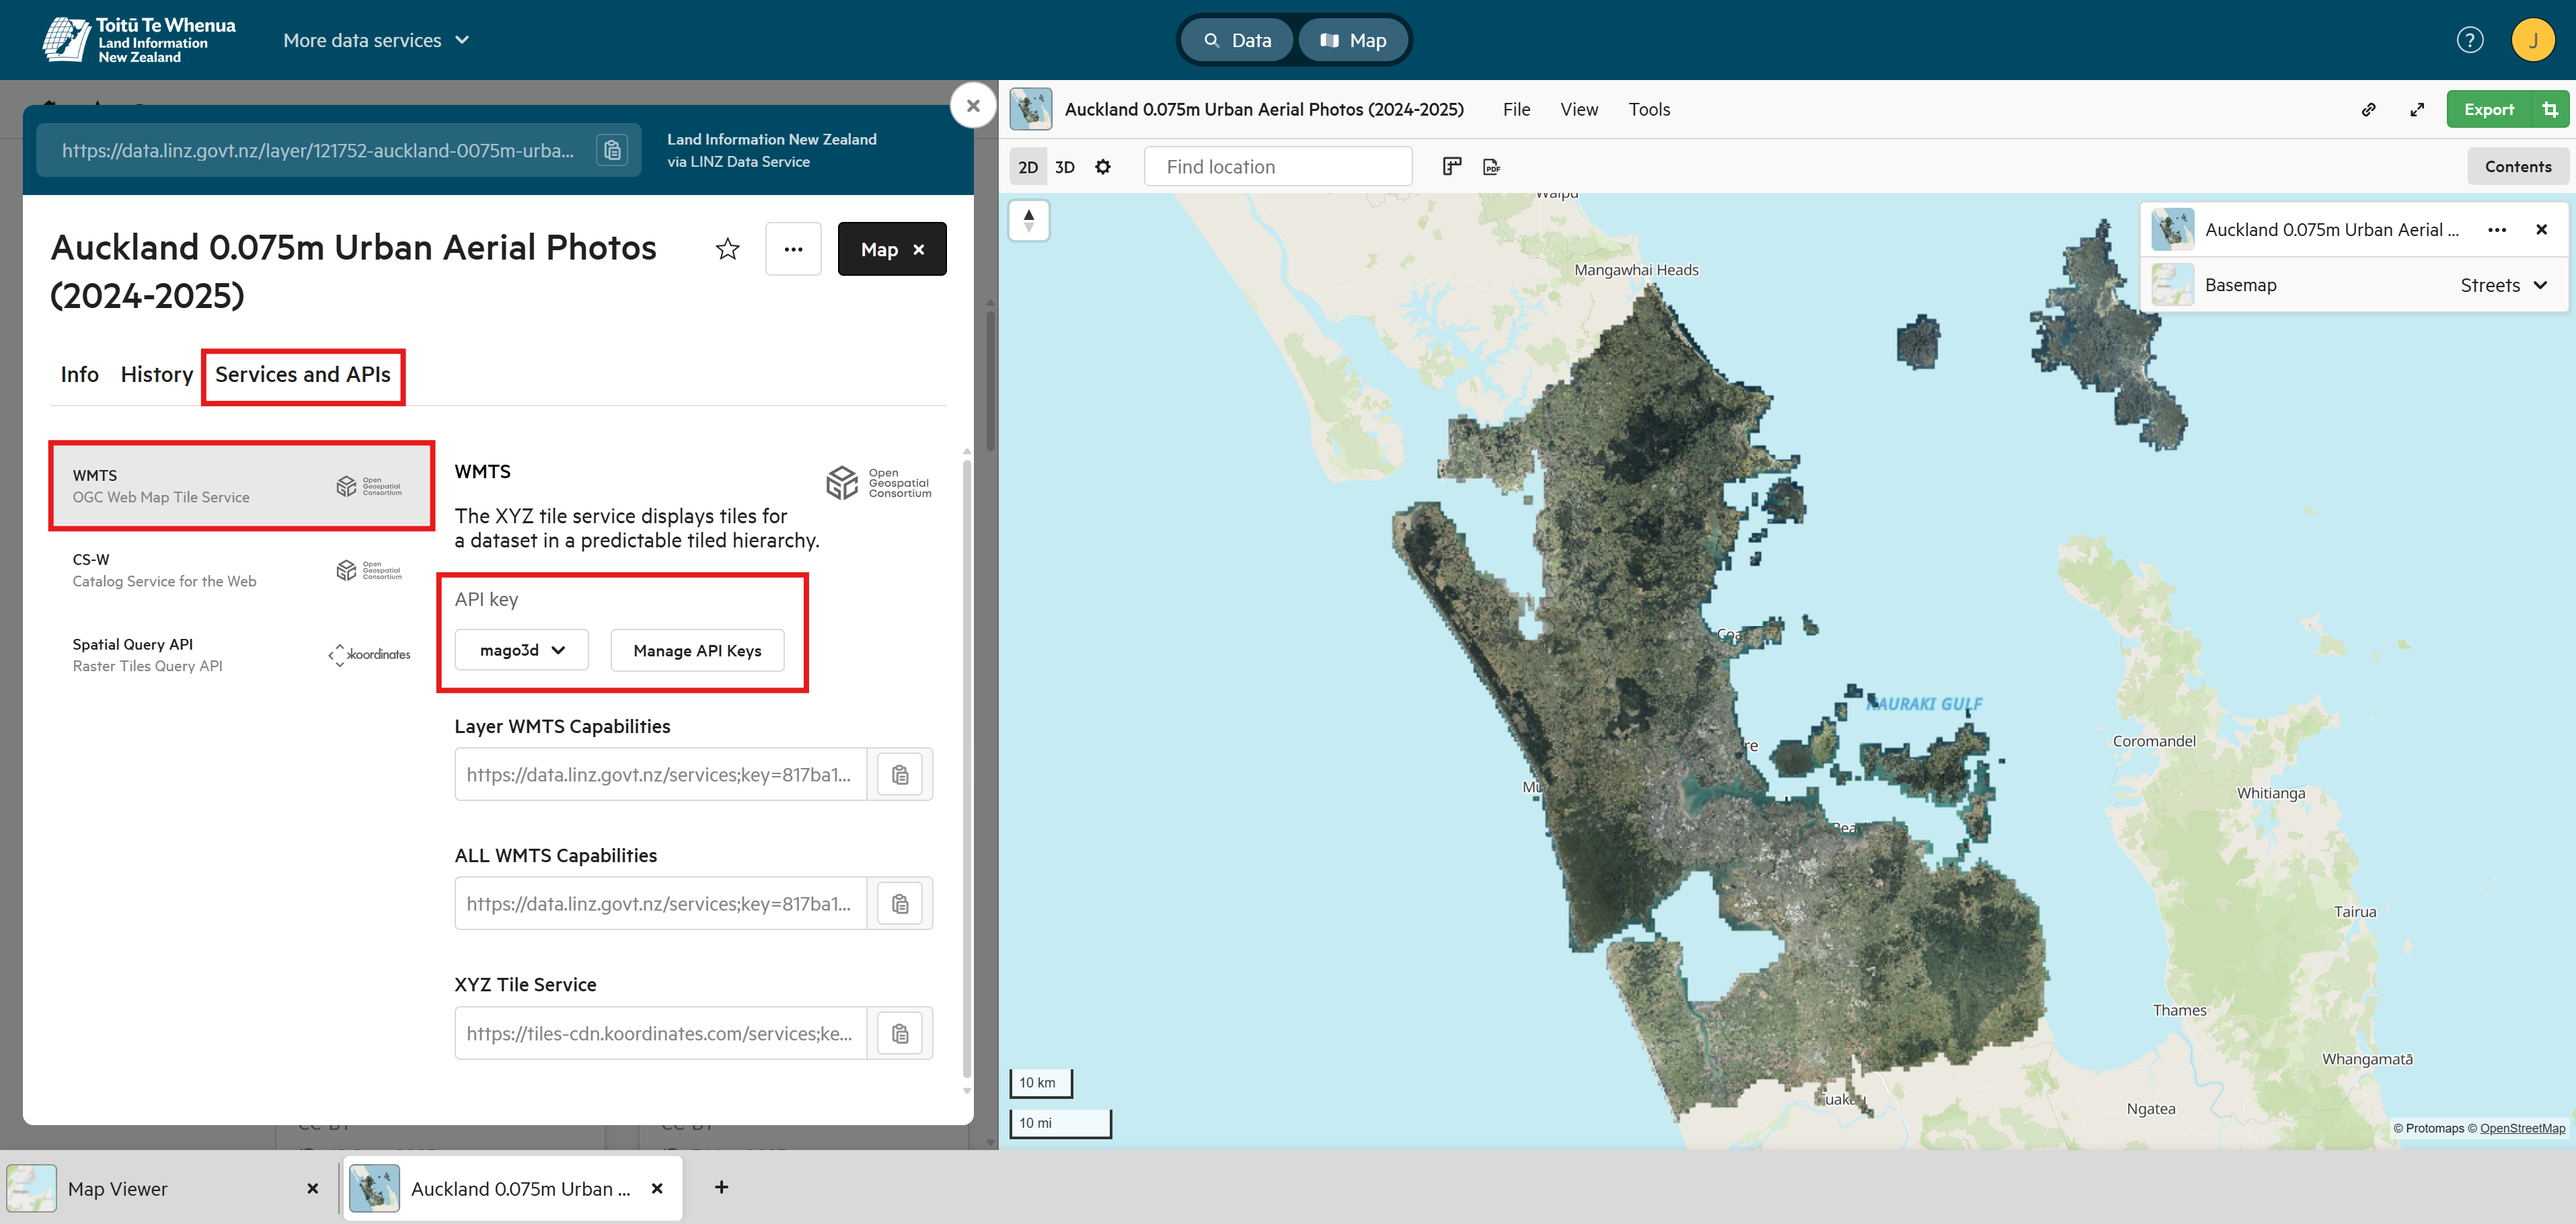
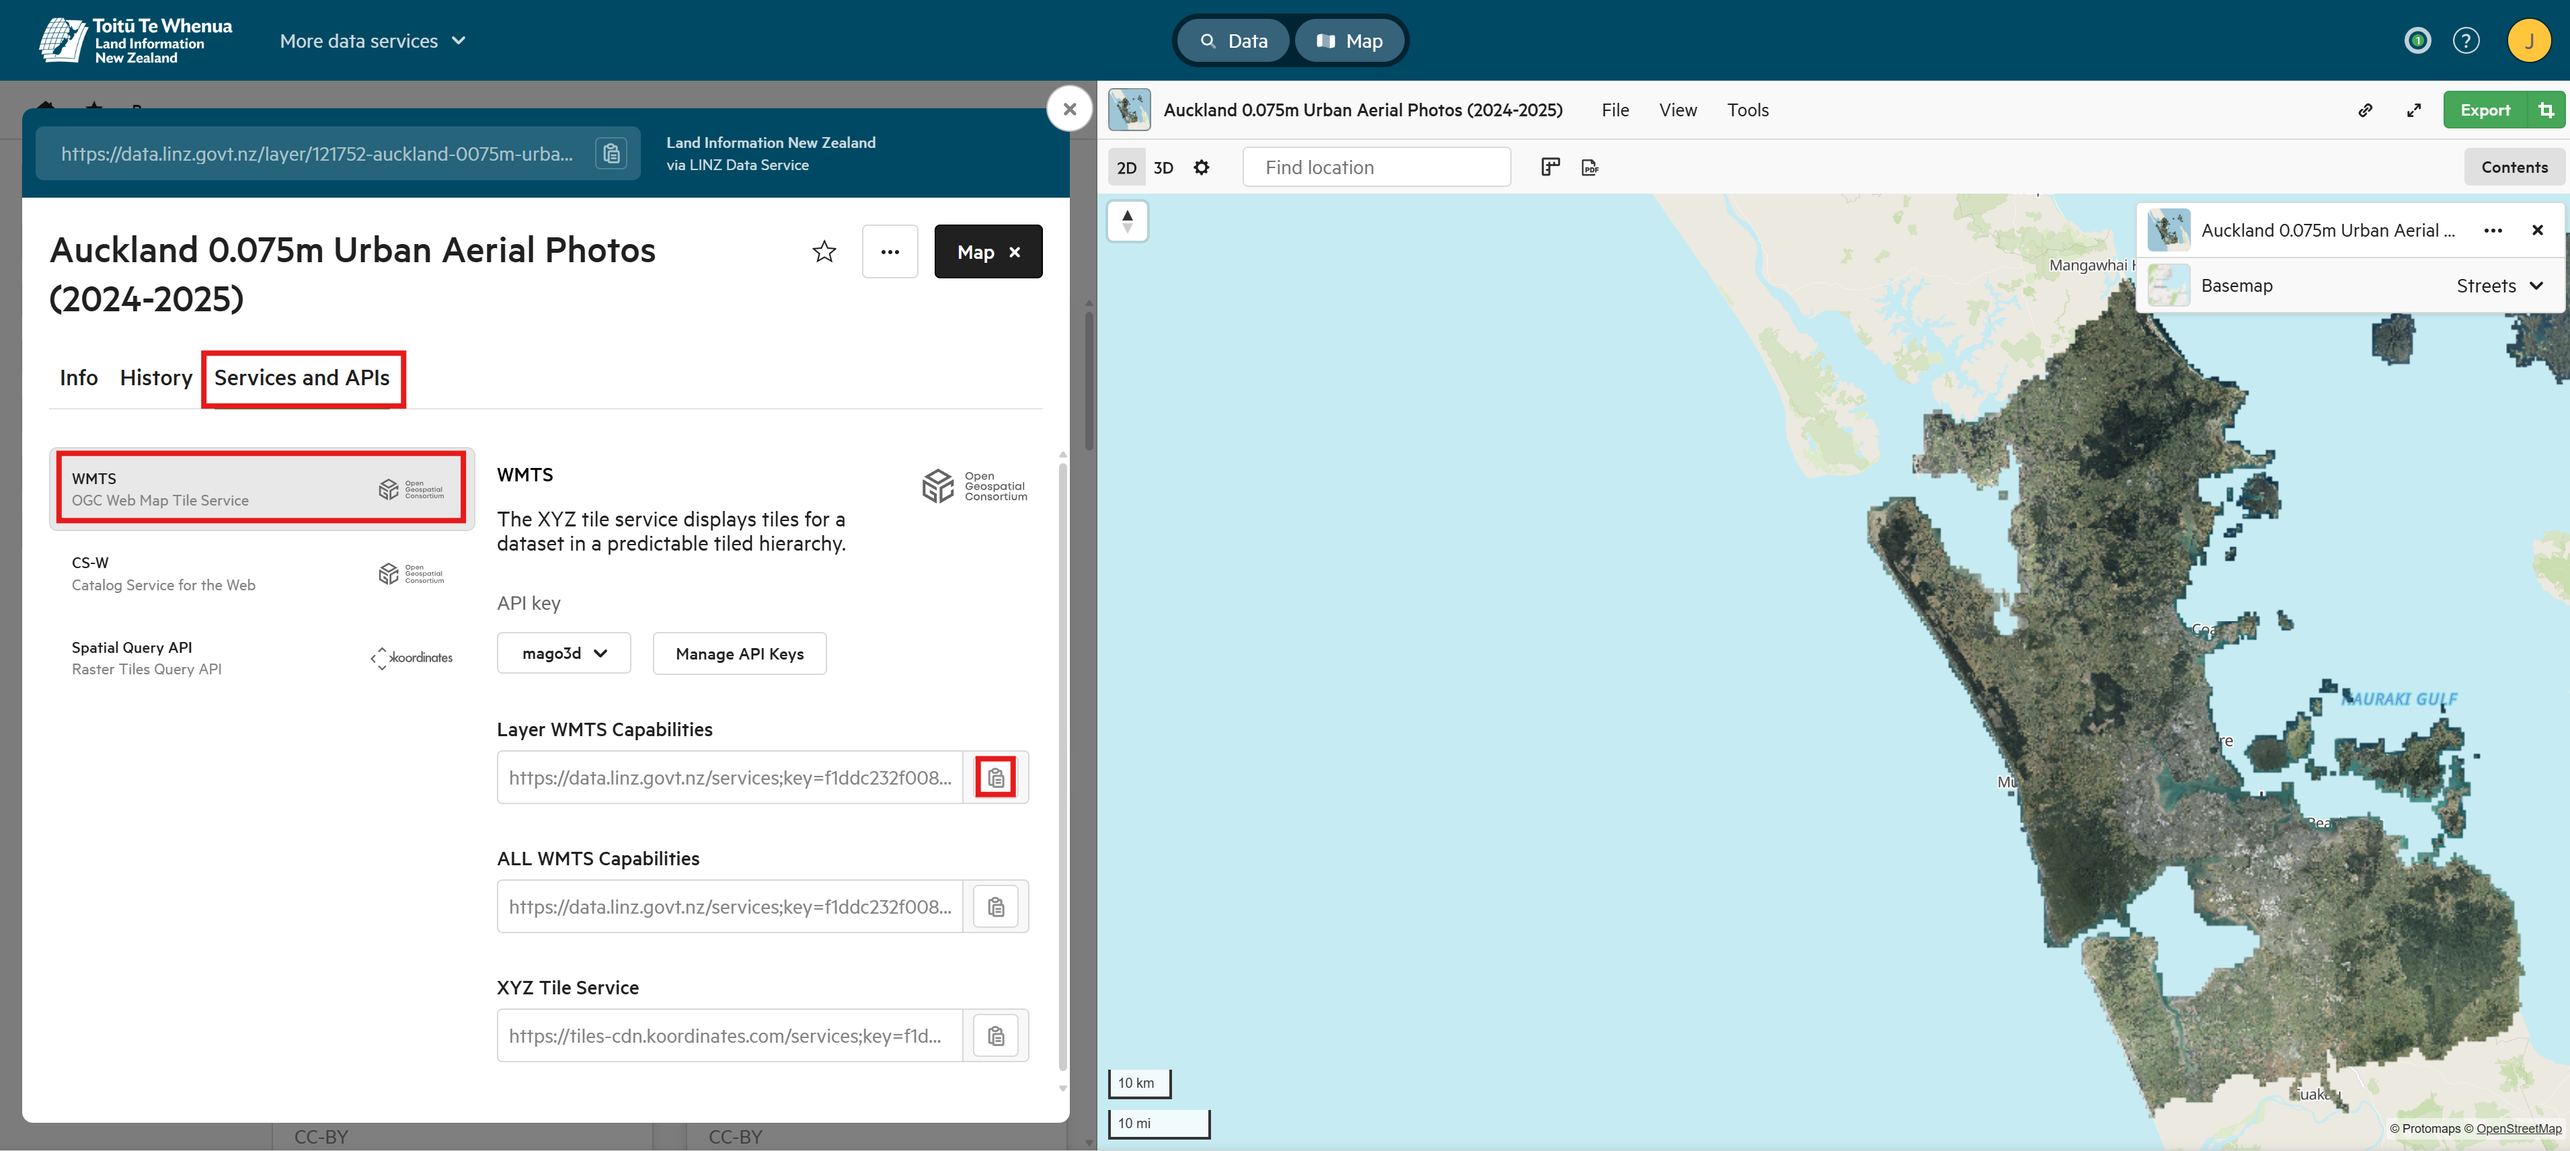
데이터 수집 가이드 수정

diff --git a/foss4g-2025/guides/1_Resource_Guide_Ko.md b/foss4g-2025/guides/1_Resource_Guide_Ko.md
@@ -3,23 +3,21 @@
 ## 기본 설정
 ### 1. 레포지토리 클론
 
-https://github.com/Gaia3D/mago3d-doc 의 git 주소를 복사합니다.
+- https://github.com/Gaia3D/mago3d-doc 의 git 주소를 복사합니다.
 
-![](../images/git_url.png)
+  ![](../images/git_url.png)
 
-`C:\` 에서 git bash를 엽니다.
+- `C:\` 에서 git bash를 엽니다.
 
-![](../images/git_bash.png)
+  ![](../images/git_bash.png)
 
-복사한 url을 붙여넣어 레포지토리를 클론합니다.
-```
-git clone https://github.com/Gaia3D/mago3d-doc.git
-```
+- 복사한 url을 붙여넣어 레포지토리를 클론합니다.
+  ```
+  git clone https://github.com/Gaia3D/mago3d-doc.git
+  ```
+  ![](../images/git_clone.png)
 
-![](../images/git_clone.png)
-
-`C:\mago3d-doc` 폴더가 생성된다면 성공입니다.
-
+- `C:\mago3d-doc` 폴더가 생성된다면 성공입니다.
 이제 실습 준비가 완료되었습니다. 다음 단계를 진행하세요! 🚀
 
 ---
@@ -39,31 +37,29 @@ Visual Studio Code 또는 IntelliJ 사용을 권장합니다.
 
 만약 도커가 설치 되어있지 않다면 실습 진행이 어려우므로, [https://www.docker.com/](https://www.docker.com/) 에서 도커를 다운 받으신 후 진행 하시기 바랍니다.
 
-터미널을 열고 Docker가 설치되었는지 확인합니다. 다음 명령어를 입력하세요.
+- 터미널을 열고 Docker가 설치되었는지 확인합니다. 다음 명령어를 입력하세요.
    ```sh
    docker --version
    ```
-정상적으로 설치되었을 경우 다음과 같이 출력됩니다.
+- 정상적으로 설치되었을 경우 다음과 같이 출력됩니다.
    ```sh
    Docker version 27.3.1, build ce12230
    ```
 
 ---
 ### 4. LINZ Data Service API 키 발행
-설명 추가
-
 [https://data.linz.govt.nz/](https://data.linz.govt.nz/) 에 가입합니다.
 
-다음과 같이 API 키를 발행합니다
-![step1](../images/api_key1.png)
+- 다음과 같이 API 키를 발행합니다
+  ![step1](../images/api_key1.png)
 
-![step2](../images/api_key2.png)
+  ![step2](../images/api_key2.png)
 
-![step3](../images/api_key3.png)
+  ![step3](../images/api_key3.png)
 
-![step4](../images/api_key4.png)
+- 생성된 API 키는 복사하여 따로 저장해야 합니다.
 
-생성된 API 키는 복사하여 따로 저장해야 합니다.
+  ![step4](../images/api_key4.png)
 
 ---
 
@@ -94,24 +90,24 @@ Visual Studio Code 또는 IntelliJ 사용을 권장합니다.
 
 - cmd 창에서 가상환경을 생성하려는 디렉터리로 이동합니다. 아까 생성해준 디렉터리로 이동하려면 다음 명령어를 입력하세요.
 
-- Windows
-   ```sh
-   cd C:\mago3d-doc
-   ```
-- Mac / Linux
-   ```sh
-   cd ~/mago3d-doc
-   ```
+  - #### Windows
+     ```sh
+     cd C:\mago3d-doc
+     ```
+  - #### Mac / Linux
+     ```sh
+     cd ~/mago3d-doc
+     ```
 
 - 다음 명령어를 입력하여 가상환경을 생성합니다.
-#### Windows
-```sh
-python -m venv myvenv
-```
-#### Linux/macOS
-```sh
-python3 -m venv myvenv
-```
+  - #### Windows
+    ```sh
+    python -m venv myvenv
+    ```
+  - #### Linux/macOS
+    ```sh
+    python3 -m venv myvenv
+    ```
 
 - 여기서 `myvenv`는 가상환경의 이름입니다. 원하는 이름으로 변경할 수 있습니다.
 
@@ -121,22 +117,22 @@ python3 -m venv myvenv
 
 - 가상환경을 활성화하려면 cmd 창에서 다음 명령어를 입력합니다.
 
-#### Windows (Command Prompt)
-```shell
-myvenv\Scripts\activate
-```
-#### Windows (PowerShell)
-```shell
-.\myvenv\Scripts\Activate.ps1
-```
-#### Windows (Git Bash)
-```shell
-source myvenv/Scripts/activate
-```
-#### Linux/macOS
-```shell
-source myenv/bin/activate
-```
+  - #### Windows (Command Prompt)
+    ```shell
+    myvenv\Scripts\activate
+    ```
+  - #### Windows (PowerShell)
+    ```shell
+    .\myvenv\Scripts\Activate.ps1
+    ```
+  - #### Windows (Git Bash)
+    ```shell
+    source myvenv/Scripts/activate
+    ```
+  - #### Linux/macOS
+    ```shell
+    source myenv/bin/activate
+    ```
 
 - 위 명령어를 실행하면, 프롬프트가 `(myvenv)`와 같이 변경되어 가상환경이 활성화된 것을 알 수 있습니다.
 
@@ -145,9 +141,9 @@ source myenv/bin/activate
 ### **4. Overture Maps 패키지 설치**
 
 - 가상환경이 활성화된 상태에서, Overture Maps 패키지를 설치하기 위해 cmd 창에서 다음 명령어를 입력합니다.
-```shell
-pip install overturemaps
-```
+  ```shell
+  pip install overturemaps
+  ```
 
 ---
 
@@ -155,30 +151,30 @@ pip install overturemaps
 
 ### Building
 
-#### Windows (Command Prompt)
-```
-overturemaps download ^
-    --bbox=174.7493740584586419,-36.8648980092102789,174.7949689180301220,-36.8329413929010130 ^
-    -f geojson ^
-    --type=building ^
-    -o foss4g-2025/public/auckland_central_building.geojson
-```
-#### Windows (PowerShell)
-```
-overturemaps download `
-    --bbox=174.7493740584586419,-36.8648980092102789,174.7949689180301220,-36.8329413929010130 `
-    -f geojson `
-    --type=building `
-    -o foss4g-2025/public/auckland_central_building.geojson
-```
-#### Linux/macOS
-```
-overturemaps download \
-    --bbox=174.7493740584586419,-36.8648980092102789,174.7949689180301220,-36.8329413929010130 \
-    -f geojson \
-    --type=building \
-    -o foss4g-2025/public/auckland_central_building.geojson
-```
+- #### Windows (Command Prompt)
+  ```
+  overturemaps download ^
+      --bbox=174.7493740584586419,-36.8648980092102789,174.7949689180301220,-36.8329413929010130 ^
+      -f geojson ^
+      --type=building ^
+      -o foss4g-2025/public/auckland_central_building.geojson
+  ```
+- #### Windows (PowerShell)
+  ```
+  overturemaps download `
+      --bbox=174.7493740584586419,-36.8648980092102789,174.7949689180301220,-36.8329413929010130 `
+      -f geojson `
+      --type=building `
+      -o foss4g-2025/public/auckland_central_building.geojson
+  ```
+- #### Linux/macOS
+  ```
+  overturemaps download \
+      --bbox=174.7493740584586419,-36.8648980092102789,174.7949689180301220,-36.8329413929010130 \
+      -f geojson \
+      --type=building \
+      -o foss4g-2025/public/auckland_central_building.geojson
+  ```
 
 - 결과물은 다음 경로에 저장됩니다
   ```
@@ -188,30 +184,30 @@ overturemaps download \
 
 ### Land Use
 
-#### Windows (Command Prompt)
-```
-overturemaps download ^
-    --bbox=174.7493740584586419,-36.8648980092102789,174.7949689180301220,-36.8329413929010130 ^
-    -f geojson ^
-    --type=land_use ^
-    -o foss4g-2025/public/auckland_central_land_use.geojson
-```
-#### Windows (PowerShell)
-```
-overturemaps download `
-    --bbox=174.7493740584586419,-36.8648980092102789,174.7949689180301220,-36.8329413929010130 `
-    -f geojson `
-    --type=land_use `
-    -o foss4g-2025/public/auckland_central_land_use.geojson
-```
-#### Linux/macOS
-```
-overturemaps download \
-    --bbox=174.7493740584586419,-36.8648980092102789,174.7949689180301220,-36.8329413929010130 \
-    -f geojson \
-    --type=land_use \
-    -o foss4g-2025/public/auckland_central_land_use.geojson
-```
+- #### Windows (Command Prompt)
+  ```
+  overturemaps download ^
+      --bbox=174.7493740584586419,-36.8648980092102789,174.7949689180301220,-36.8329413929010130 ^
+      -f geojson ^
+      --type=land_use ^
+      -o foss4g-2025/public/auckland_central_land_use.geojson
+  ```
+- #### Windows (PowerShell)
+  ```
+  overturemaps download `
+      --bbox=174.7493740584586419,-36.8648980092102789,174.7949689180301220,-36.8329413929010130 `
+      -f geojson `
+      --type=land_use `
+      -o foss4g-2025/public/auckland_central_land_use.geojson
+  ```
+- #### Linux/macOS
+  ```
+  overturemaps download \
+      --bbox=174.7493740584586419,-36.8648980092102789,174.7949689180301220,-36.8329413929010130 \
+      -f geojson \
+      --type=land_use \
+      -o foss4g-2025/public/auckland_central_land_use.geojson
+  ```
 
 - 결과물은 다음 경로에 저장됩니다
   ```
@@ -221,59 +217,68 @@ overturemaps download \
 
 ---
 ### 항공 영상 데이터
-https://data.linz.govt.nz/layer/121752-auckland-0075m-urban-aerial-photos-2024-2025/
 
-이전에 발급받은 API 키를 사용해 WMTS 데이터를 사용합니다.
+[https://data.linz.govt.nz/layer/121752-auckland-0075m-urban-aerial-photos-2024-2025/](https://data.linz.govt.nz/layer/121752-auckland-0075m-urban-aerial-photos-2024-2025/)
 
-![](../images/aerial.png)
+- 이전에 발급받은 API 키를 사용해 WMTS 데이터를 사용합니다.
+
+  ![](../images/aerial.png)
+
+- Layer WMTS Capabilities API를 호출했을 때 XML 파일이 나오면 정상입니다.
+
+  ![](../images/aerial_api.png)
 
 ---
 ### 도로 영상 데이터
 
-https://data.linz.govt.nz/layer/53378-nz-roads-road-section-geometry/
+[https://data.linz.govt.nz/layer/53378-nz-roads-road-section-geometry/](https://data.linz.govt.nz/layer/53378-nz-roads-road-section-geometry/)
 
-이전에 발급받은 API 키를 사용해 WMTS 데이터를 사용합니다.
+- 이전에 발급받은 API 키를 사용해 WMTS 데이터를 사용합니다.
 
-![](../images/road.png)
+  ![](../images/road.png)
+
+- Layer WFS Capabilities API를 호출했을 때 XML 파일이 나오면 정상입니다.
+
+  ![](../images/road_api.png)
 
 ---
 ### DEM 데이터
 
-https://data.linz.govt.nz/layer/121859-new-zealand-lidar-1m-dem/
+[https://data.linz.govt.nz/layer/121859-new-zealand-lidar-1m-dem/](https://data.linz.govt.nz/layer/121859-new-zealand-lidar-1m-dem/)
 
-원하는 영역을 지정해 데이터를 다운받습니다.
+- 원하는 영역을 지정해 데이터를 다운받습니다.
 
-![](../images/crop_dem.png)
+  ![](../images/crop_dem.png)
 
-CRS를 설정하고 Export 합니다.
+- CRS를 설정하고 Export 합니다.
 
-![](../images/export_dem.png)
+  ![](../images/export_dem.png)
 
-파일을 다운로드합니다.
+- 파일을 다운로드합니다.
 
-![](../images/download_dem.png)
+  ![](../images/download_dem.png)
 
-다운로드 받은 파일의 압축을 풀고, `BA32.tif` 파일을 `foss4g-2025/public` 경로에 복사합니다.
+- 다운로드 받은 파일의 압축을 풀고, `BA32.tif` 파일을 `foss4g-2025/public` 경로에 복사합니다.
 
-![](../images/copy_dem.png)
+  ![](../images/copy_dem.png)
 
 ---
 ### 포인트 클라우드 데이터
 
-https://data.linz.govt.nz/layer/d3VcCb5rKzNsNGk/auckland-part-1-lidar-point-cloud-2024/
+[https://data.linz.govt.nz/layer/d3VcCb5rKzNsNGk/auckland-part-1-lidar-point-cloud-2024/](https://data.linz.govt.nz/layer/d3VcCb5rKzNsNGk/auckland-part-1-lidar-point-cloud-2024/)
 
-원하는 영역을 지정해 데이터를 다운받습니다.
+- 원하는 영역을 지정해 데이터를 다운받습니다.
 
-![](../images/crop_pointcloud.png)
+  ![](../images/crop_pointcloud.png)
 
-CRS를 설정하고 Export 합니다. 최대 50MB를 넘지 않도록 영역을 설정해주세요.
+- CRS를 설정하고 Export 합니다. 최대 50MB를 넘지 않도록 영역을 설정해주세요.
 
-![](../images/export_pointcloud.png)
+  ![](../images/export_pointcloud.png)
 
-파일을 다운로드합니다.
+- 파일을 다운로드합니다.
 
-![](../images/download_pointcloud.png)
+  ![](../images/download_pointcloud.png)
 
-다운로드 받은 파일의 압축을 풀고, `.laz` 파일들을 `foss4g-2025/public` 경로에 복사합니다.
+- 다운로드 받은 파일의 압축을 풀고, `.laz` 파일들을 `foss4g-2025/public` 경로에 복사합니다.
 
-![](../images/copy_pointcloud.png)
+  ![](../images/copy_pointcloud.png)
